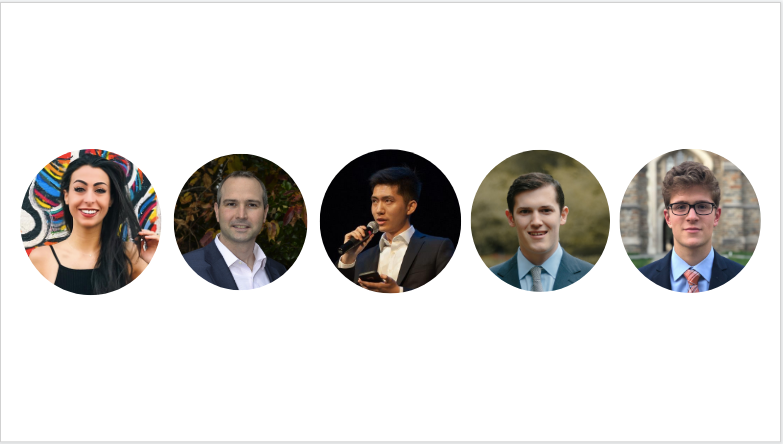
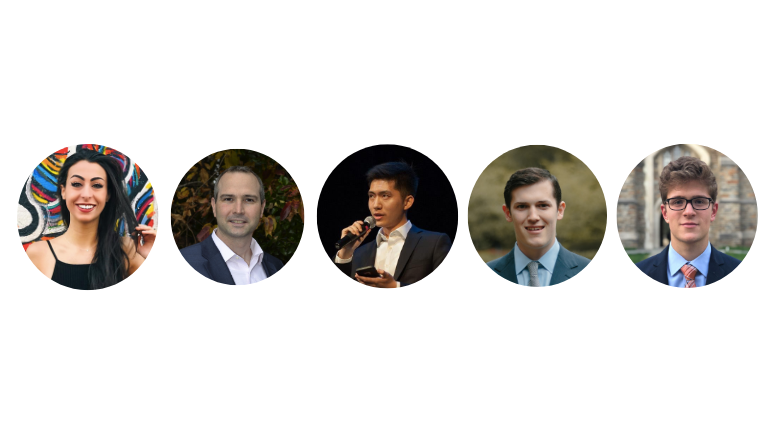
Changes to Home

diff --git a/SPEAR/src/app/components/home/home.component.scss b/SPEAR/src/app/components/home/home.component.scss
@@ -10,10 +10,11 @@
 .about-us-container {
     background-image: url('/assets/images/teambackground.png');
     background-repeat: no-repeat;
-    background-size: cover;
-    background-position: center center;
+    background-size: 80%;
+    background-position: top 10% left 50%;
+    background-origin: initial;
     width: 100%;
-    height: 18cm;
+    height: 20cm;
 }
 
 .product-container {
@@ -48,7 +49,7 @@
     height: min-content;
     font-size: bold;
     width: 70%;
-    margin-top: 6cm;
+    margin-top: 12cm;
     font-size: 1.5cm;
 }
 
@@ -64,7 +65,7 @@
     background-color: #33a1fd;
     font-weight: bold;
     outline: none;
-    margin-top: 3cm;
+    margin-top: 1cm;
     text-align: center;
 }
 

diff --git a/SPEAR/src/app/components/home/home.component.html b/SPEAR/src/app/components/home/home.component.html
@@ -3,7 +3,7 @@
         Custom APIs to fix your data transfer issues
     </div>
 </div>
-<div class = "about-us-container" fxLayout = "column" fxLayoutAlign = "start center">
+<div class = "about-us-container" fxLayout = "column" fxLayoutAlign = "end center">
     <div class = "about-us-text" fxLayoutAlign = "center center" >
         Lorem ipsum dolor sit amet, eu cum nostro consetetur,
         te fabulas impedit vis, pro habemus singulis consulatu ad. 
